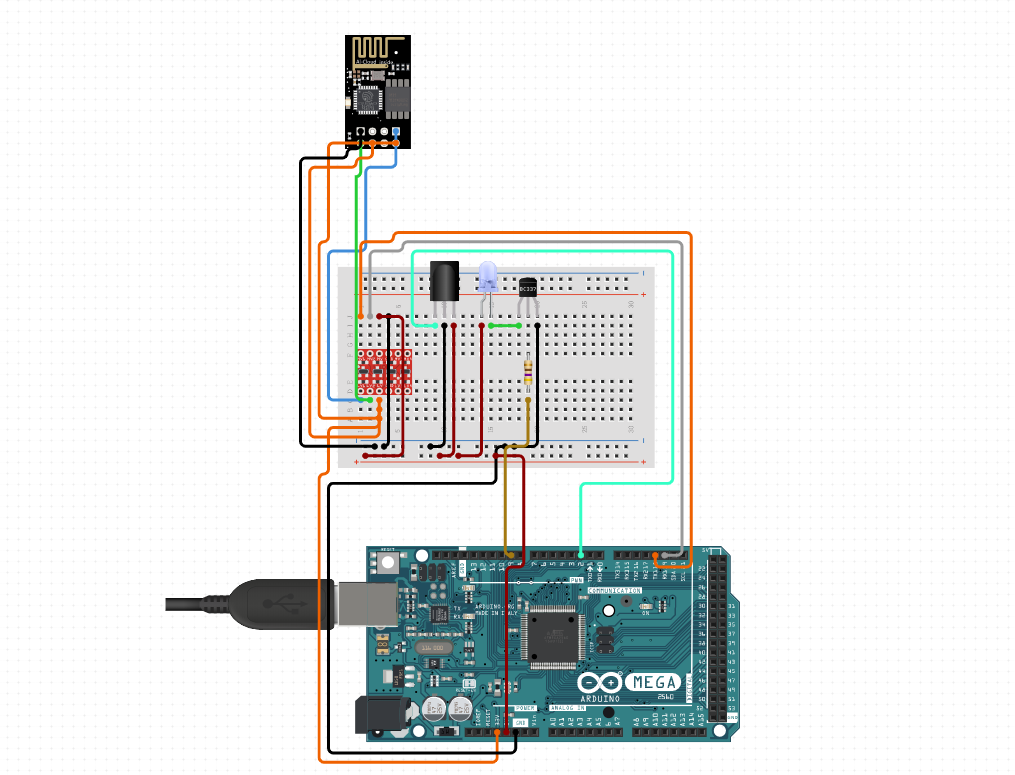
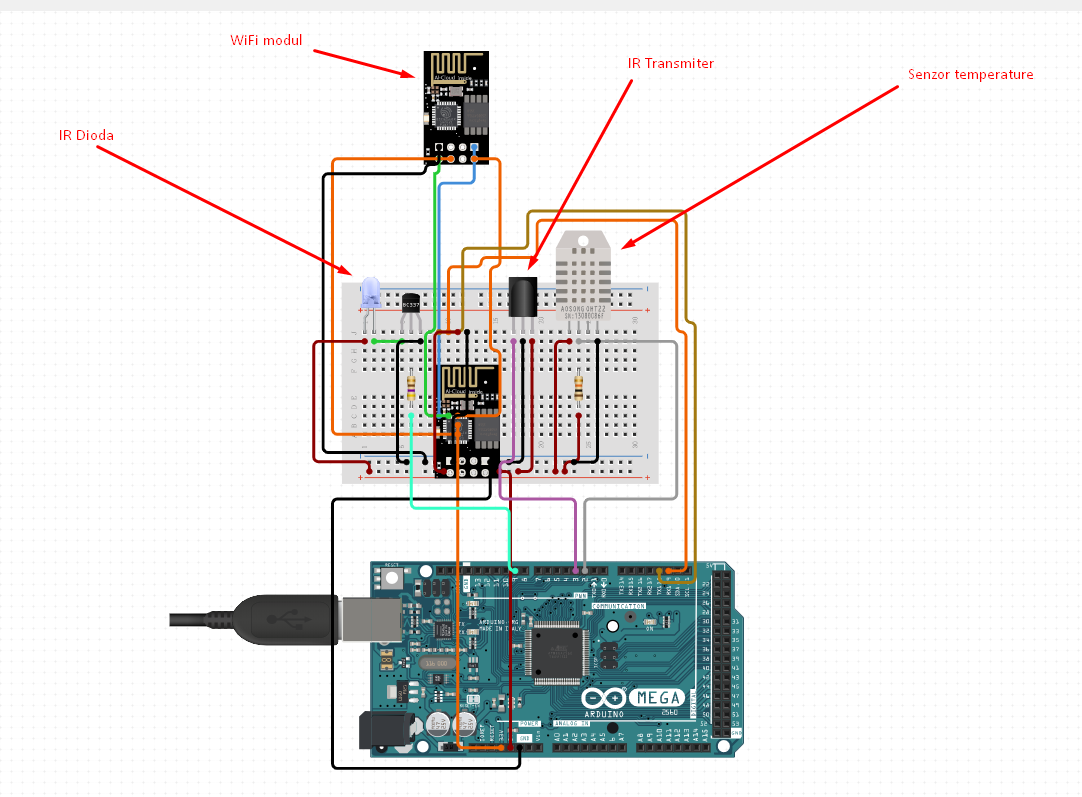
Big overhaul of README

diff --git a/controllers/actionController.js b/controllers/actionController.js
@@ -71,6 +71,7 @@ actionController.getFirstUnprocessed = async (req, res) => {
     res.status(200).json({ bits: last[0].bits }); // Only bits or entire obj?
   } catch (err) {
     res.status(500).json({ message: err.message });
+    console.log(err);
   }
 };
 

diff --git a/README.md b/README.md
@@ -10,13 +10,79 @@ Ovaj repozitorijum predstavlja projektni zadatak tima **PAKT**.
 - **K**senija Mladenović - ksenijam14
 - **T**eodora Nedeljković - teodoranedeljkovic355
 
+Projekat je **hostovan** na platformi Heroku, i može se videti na sledećem [linku](https://daljinac-api.herokuapp.com/).
+
+## [Live verzija projekta](https://daljinac-api.herokuapp.com/)
+
 ---
 
 ## Cilj projekta
 
 Cilj ovog projekta je da olakša života ljudi koji žive u potkrovljima, a osuđeni su na život bez pametne klime. Kako leti temperature dostižu neverovatno visoke brojke, scenario vraćanja kući je sledeći:
 
-Ući u stan -> Popeti se na potkrovlje -> Upaliti klimu -> Vratiti se dole ->
+Ući u stan -> Popeti se na potkrovlje -> Upaliti klimu -> Vratiti se dole -> Sačekati 5 minuta -> Popeti se na potkrovlje i nastaviti normalno dan
+
+Mi želimo da ovaj scenario uprostimo, tako da 10ak minuta pre nego što dođete kući:
+
+Na telefonu otvorite internet pretraživač -> Odete na [daljina.cc](https://daljinac-api.herokuapp.com) -> Ulogujete se na svoj nalog -> Upalite klimu preko jedne od kartica -> Dođete kući i pravo odete na potkrovlje 😊
+
+---
+
+## Hardver
+
+![slika-hardvera](/Dokumentacija/Faza5/img/Arduino.png)
+Za izradu ovog projekta korišćen je Arduino Mega. Od ostalih bitnih komponenti imamo:
+
+- ESP8266-01 WiFi Modul
+- Infrared dioda
+- Infrared transmiter
+- Senzor temperature
+
+Slika iznad je pokaznog karaktera, neke od pasivnih komponenti su drugačije ili nisu prikazane.
+
+(Slika generisana na sajtu circuito.io koji sam dodaje pasivne komponente i ne dozvoljava dodavanje drugih)
+
+---
+
+## Korišćene tehnologije i alati
+
+| Tehnolgoija/Alat                                           | Opis                                                                                                                                                                                                 | Verzija |
+| ---------------------------------------------------------- | ---------------------------------------------------------------------------------------------------------------------------------------------------------------------------------------------------- | ------: |
+| [Node.js](https://nodejs.org/)                             | JS runtime okruženje, JS na serveru                                                                                                                                                                  |   12.17 |
+| [Vue.js](https://vuejs.org/)                               | Frontend JS framework, za izradu veb aplikacija                                                                                                                                                      |  2.6.11 |
+| [VueRouter](https://router.vuejs.org/)                     | Dodatak za Vue.js, za izradu Single Page Application-a (SPA)                                                                                                                                         |   3.6.1 |
+| [Vuetify](https://vuetifyjs.com/)                          | UI biblioteka za Vue, bazirana na Material Design-u kompanije Google                                                                                                                                 |  2.2.11 |
+| [MDI](https://materialdesignicons.com/)                    | Material Design Icons, ikonice                                                                                                                                                                       |
+| [NPM](https://www.npmjs.com/)                              | Menadžer paketa za Node.js, za instaliranje biblioteka (dependency-a)                                                                                                                                |
+| [MongoDB](https://www.mongodb.com/)                        | No-SQL (nerelaciona) baza podataka, brze real-time performanse                                                                                                                                       |
+| [Mongoose](https://mongoosejs.com/)                        | Wrapper za MongoDB pisan za Node.js, modeliranje baze podataka                                                                                                                                       |   5.9.2 |
+| [Express](https://expressjs.com/)                          | Minimalan framework za Node.js, za pravljenje API-a                                                                                                                                                  |  4.17.1 |
+| [JsonWebToken](https://github.com/auth0/node-jsonwebtoken) | Enkripcija podataka o korisnicima, za autentikaciju korisnika                                                                                                                                        |   8.5.1 |
+| [Bcrypt.js](https://github.com/kelektiv/node.bcrypt.js)    | Biblioteka za heširanje lozinki (ne čuvaju se u plain-text formatu)                                                                                                                                  |   2.4.3 |
+| [Dotenv](https://github.com/motdotla/dotenv)               | Biblioteka koja omogućava korišćenje environment varijabli putem .env fajla (tajne promenljive koje ne želimo da se nađu na GitHub repo-u nalaze se ovde, poput tajnih klučeva za heširanje lozinki) |   8.2.0 |
+| [Nodemailer](https://nodemailer.com/about/)                | Biblioteka za slanje mejlova, koristi se prilikom zahtevanja promene lozinke, šalje mejl koji sadrži HTML stranicu                                                                                   |   6.4.6 |
+| [Axios](https://github.com/axios/axios)                    | HTTP klijent zasnovan na principu "Promise"-a (async JS), za slanje HTTP zahteva, "naslednik" AJAX-a                                                                                                 |  0.19.2 |
+| [Mocha](https://mochajs.org/)                              | JS framework za testiranje                                                                                                                                                                           |   7.1.1 |
+| [Chai](https://www.chaijs.com/)                            | Assertion biblioteka za JS, koristi se za preciznije assert-ovanje uz pomoć Mocha-e                                                                                                                  |   4.2.0 |
+| [NYC](https://github.com/istanbuljs/nyc)                   | Code-coverage za testove                                                                                                                                                                             |    15.0 |
+| [Nodemon](https://nodemon.io/)                             | Biblioteka koja automatski restartuje server pri promeni koda, veoma korisno 😊                                                                                                                      |   2.0.2 |
+
+Neke verzije predstavljaju minimalnu kompatibilnu, više o verzijama može se videti u package.json fajlu [servera](/package.json) i [klijenta](/client/package.json).
+
+### Ostalo
+
+| Tehnologija/Alat                                                                           | Opis                                                                                                                                                                                                                                                 |
+| ------------------------------------------------------------------------------------------ | ---------------------------------------------------------------------------------------------------------------------------------------------------------------------------------------------------------------------------------------------------- |
+| [Heroku](https://www.heroku.com/)                                                          | Platforma za deploy-ovanje aplikacije, veoma lep besplatan tier, prati promene na Github repozitorijumu i servira index.html stranu iz /client/dist/ foldera                                                                                         |
+| [Github](https://github.com)                                                               | Platforma za kolaboraciju, remote hostovanje Git repozitorijuma                                                                                                                                                                                      |
+| [Github pages](https://pages.github.com/)                                                  | Besplatno hostovanje open-source static veb sajtova, za hostovanje prototipa                                                                                                                                                                         |
+| [Github Actions](https://github.com/features/actions)                                      | Continious Integration (CI) "platforma" u okviru Github-a, automatsko testiranje na svakom pull request-u, testovi se nalaze u /test/ folderu, samo podešavanje Github Actions-a se radi u .yaml fajlu, koji se nalazi u /.github/workflows/ folderu |
+| [Trello](https://trello.com/)                                                              | Sajt za upravljanje softverskim projektom, korišćenje Kanban principa, olakšana podela posla, svako zna ko šta radi... Mali pogled na našu tablu nalazi se [ovde](/Dokumentacija/Faza5/img/Trello.png)                                               |
+| [Visual Studio Code](https://code.visualstudio.com/)                                       | Najpopularniji code editor trenutno, veoma fleksibilan što se tiče podrške jezika, kao i personalizovanja samog okruženja                                                                                                                            |
+| [Prettier](https://marketplace.visualstudio.com/items?itemName=esbenp.prettier-vscode)     | Ekstenzija za VSCode, formatira kod prilikom svakog čuvanja                                                                                                                                                                                          |
+| [Vetur](https://marketplace.visualstudio.com/items?itemName=octref.vetur)                  | Ekstenzija za VSCode, intellisense za Vue.js, omogućuje Prettier da radi za .vue fajlove                                                                                                                                                             |
+| [MS Teams](https://www.microsoft.com/en/microsoft-365/microsoft-teams/group-chat-software) | Alat za kolaboraciju, video i audio sastanke, mogućnost deljenja ekrana...                                                                                                                                                                           |
+| [Git Bash](https://git-scm.com/downloads)                                                  | Bolji shell program od Windows CMD-a, za korišćenje Git-a                                                                                                                                                                                            |
 
 ---
 
